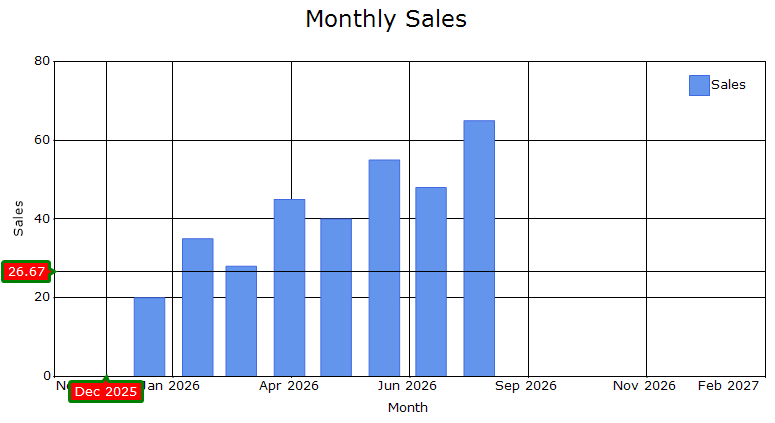
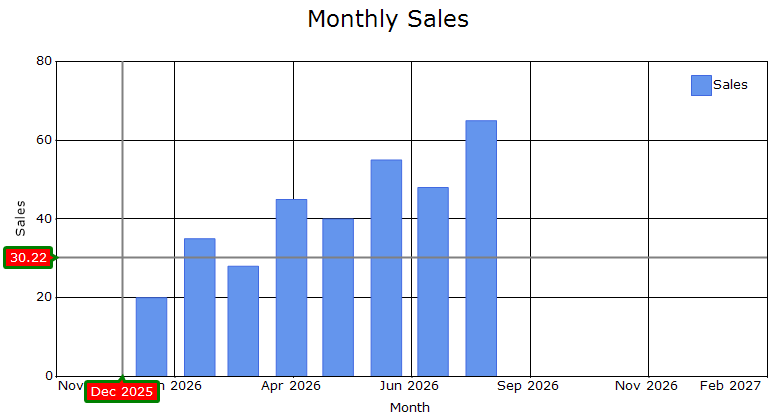
update crosshair

diff --git a/WindowsForms/chart/Chart-User-Interactions/corsshair.md b/WindowsForms/chart/Chart-User-Interactions/corsshair.md
@@ -9,33 +9,36 @@ documentation: ug
 
 # Crosshair in Windows Forms Chart
 
-## Crosshair
+The [Crosshair](https://help.syncfusion.com/cr/windowsforms/Syncfusion.Windows.Forms.Chart.ChartControl.html#Syncfusion_Windows_Forms_Chart_ChartControl_Crosshair) is used to view the chart values at the current mouse or touch position. Moving the crosshair horizontally displays the corresponding X-axis value, while moving it vertically displays the corresponding Y-axis value.
 
-The [Crosshair](https://help.syncfusion.com/cr/windowsforms/Syncfusion.Windows.Forms.Chart.ChartControl.html#Syncfusion_Windows_Forms_Chart_ChartControl_Crosshair) displays horizontal and vertical lines at the current mouse or touch position. Axis tooltips display the corresponding chart coordinates, helping users inspect values at a specific location.
+## Enable crosshair
 
-### Enable crosshair
+The [Visible](https://help.syncfusion.com/cr/windowsforms/Syncfusion.Windows.Forms.Chart.ChartCrosshair.html#Syncfusion_Windows_Forms_Chart_ChartCrosshair_Visible) property controls whether the crosshair is displayed in the chart. By default, it is set to `false`.
 
-The [Visible](https://help.syncfusion.com/cr/windowsforms/Syncfusion.Windows.Forms.Chart.ChartCrosshair.html#Syncfusion_Windows_Forms_Chart_ChartCrosshair_Visible) property controls whether the Crosshair is displayed in the chart.
+N> To display the crosshair tooltip, set the [ShowCrosshairTooltip](https://help.syncfusion.com/cr/windowsforms/Syncfusion.Windows.Forms.Chart.ChartAxis.html#Syncfusion_Windows_Forms_Chart_ChartAxis_ShowCrosshairTooltip) property to `true`.
 
-N> To display the Crosshair tooltip, set the [ShowCrosshairTooltip](https://help.syncfusion.com/cr/windowsforms/Syncfusion.Windows.Forms.Chart.ChartAxis.html#Syncfusion_Windows_Forms_Chart_ChartAxis_ShowCrosshairTooltip) property to `true`.
-
-The following code example demonstrates how to enable the Crosshair and display tooltips on the primary X and Y axes.
+The following code example demonstrates how to enable the crosshair and display tooltips on the primary X and Y axes.
 
 {% tabs %}
 {% highlight c# %}
+
 // Enables the Crosshair.
 chartControl.Crosshair.Visible = true;
 
 // Displays the Crosshair tooltips on the axes.
 chartControl.PrimaryXAxis.ShowCrosshairTooltip = true;
-chartControl.PrimaryYAxis.ShowCrosshairTooltip = true;{% endhighlight %}
+chartControl.PrimaryYAxis.ShowCrosshairTooltip = true;
+
+{% endhighlight %}
 {% highlight vb %}
+
 ' Enables the Crosshair.
 chartControl.Crosshair.Visible = True
 
-' Displays the Crosshair tooltips on the axes.
+' Displays the Crosshair tooltips on the primary axes.
 chartControl.PrimaryXAxis.ShowCrosshairTooltip = True
 chartControl.PrimaryYAxis.ShowCrosshairTooltip = True
+
 {% endhighlight %}
 {% endtabs %}
 
@@ -43,18 +46,22 @@ chartControl.PrimaryYAxis.ShowCrosshairTooltip = True
 
 ## Crosshair line
 
-The [Line](https://help.syncfusion.com/cr/windowsforms/Syncfusion.Windows.Forms.Chart.ChartCrosshair.html#Syncfusion_Windows_Forms_Chart_ChartCrosshair_Line) property provides options to customize the appearance of the Crosshair lines. The default value is a new instance of the [ChartLineInfo](https://help.syncfusion.com/cr/windowsforms/Syncfusion.Windows.Forms.Chart.ChartLineInfo.html) class.
+The [Line](https://help.syncfusion.com/cr/windowsforms/Syncfusion.Windows.Forms.Chart.ChartCrosshair.html#Syncfusion_Windows_Forms_Chart_ChartCrosshair_Line) property allows you to customize the appearance of the crosshair lines. By default, this property is initialized with a new instance of the [ChartLineInfo](https://help.syncfusion.com/cr/windowsforms/Syncfusion.Windows.Forms.Chart.ChartLineInfo.html) class.
 
-The following code example demonstrates how to customize the color and width of the Crosshair lines.
+The following code example demonstrates how to customize the color and width of the crosshair lines.
 
 {% tabs %}
 {% highlight c# %}
+
 chartControl.Crosshair.Line.Color = Color.Red;
 chartControl.Crosshair.Line.Width = 2;
+
 {% endhighlight %}
 {% highlight vb %}
+
 chartControl.Crosshair.Line.Color = Color.Red
 chartControl.Crosshair.Line.Width = 2
+
 {% endhighlight %}
 {% endtabs %}
 
@@ -62,28 +69,41 @@ chartControl.Crosshair.Line.Width = 2
 
 ## Axis tooltip
 
-The [AxisTooltip](https://help.syncfusion.com/cr/windowsforms/Syncfusion.Windows.Forms.Chart.ChartCrosshair.html#Syncfusion_Windows_Forms_Chart_ChartCrosshair_AxisTooltip) property provides options to customize the tooltips displayed on the chart axes at the current Crosshair position. The default value is a new instance of the [TrackballTooltip](https://help.syncfusion.com/cr/windowsforms/Syncfusion.Windows.Forms.Chart.TrackballTooltip.html) class.
+The [AxisTooltip](https://help.syncfusion.com/cr/windowsforms/Syncfusion.Windows.Forms.Chart.ChartCrosshair.html#Syncfusion_Windows_Forms_Chart_ChartCrosshair_AxisTooltip) property provides options to customize the tooltips displayed on the chart axes at the current crosshair position. The default value is a new instance of the [TrackballTooltip](https://help.syncfusion.com/cr/windowsforms/Syncfusion.Windows.Forms.Chart.TrackballTooltip.html) class.
 
-N> Create a [ChartLineInfo](https://help.syncfusion.com/cr/windowsforms/Syncfusion.Windows.Forms.Chart.ChartLineInfo.html) instance for the `Border` property before customizing it to avoid a null-reference exception.
+N> Create a [ChartLineInfo](https://help.syncfusion.com/cr/windowsforms/Syncfusion.Windows.Forms.Chart.ChartLineInfo.html) instance for the [Border](https://help.syncfusion.com/cr/windowsforms/Syncfusion.Windows.Forms.Chart.TrackballTooltip.html#Syncfusion_Windows_Forms_Chart_TrackballTooltip_Border) property before customizing it to avoid a null-reference exception.
 
-The following code example demonstrates how to configure the Crosshair axis tooltip.
+The following code example demonstrates how to configure the crosshair axis tooltip.
 
 {% tabs %}
 {% highlight c# %}
-chartControl.Crosshair.AxisTooltip.Border = new ChartLineInfo();
-chartControl.Crosshair.AxisTooltip.Border.Color = Color.Green;
-chartControl.Crosshair.AxisTooltip.Border.Width = 3;
-chartControl.Crosshair.AxisTooltip.Interior = new BrushInfo(Color.Red);
 
+chartControl.Crosshair.Line.Color = Color.Gray;
+chartControl.Crosshair.Line.Width = 2;
+chartControl.Crosshair.AxisTooltip.Border = new ChartLineInfo();
+
+chartControl.Crosshair.AxisTooltip.Border.Color = Color.Green;
+
+chartControl.Crosshair.AxisTooltip.Border.Width = 3;
+
+chartControl.Crosshair.AxisTooltip.Interior = new BrushInfo(Color.Red);
 chartControl.Crosshair.AxisTooltip.TextColor = Color.White;
 
 {% endhighlight %}
 {% highlight vb %}
 
+'' Customizes the Crosshair lines.
+chartControl.Crosshair.Line.Color = Color.Gray
+chartControl.Crosshair.Line.Width = 2
+
+' Initializes and customizes the axis tooltip border.
 chartControl.Crosshair.AxisTooltip.Border = New ChartLineInfo()
 chartControl.Crosshair.AxisTooltip.Border.Color = Color.Green
-chartControl.Crosshair.AxisTooltip.Border.Width = 
-chartControl.Crosshair.AxisTooltip.Interior = New BrushInfo(Color.Red)
+chartControl.Crosshair.AxisTooltip.Border.Width = 3
+
+' Customizes the axis tooltip appearance.
+chartControl.Crosshair.AxisTooltip.Interior =
+    New BrushInfo(Color.Red)
 chartControl.Crosshair.AxisTooltip.TextColor = Color.White
 
 {% endhighlight %}
@@ -94,6 +114,6 @@ chartControl.Crosshair.AxisTooltip.TextColor = Color.White
 
 ## Crosshair event
 
-The [AxisTooltipRendering](https://help.syncfusion.com/cr/windowsforms/Syncfusion.Windows.Forms.Chart.ChartCrosshair.html) event is triggered once for each axis before its Crosshair tooltip is displayed.
+The [AxisTooltipRendering](https://help.syncfusion.com/cr/windowsforms/Syncfusion.Windows.Forms.Chart.ChartCrosshair.html) event is triggered once for each axis before its crosshair tooltip is displayed.
 
 This event can be used to customize the text, background, border, or text color of an individual axis tooltip.
